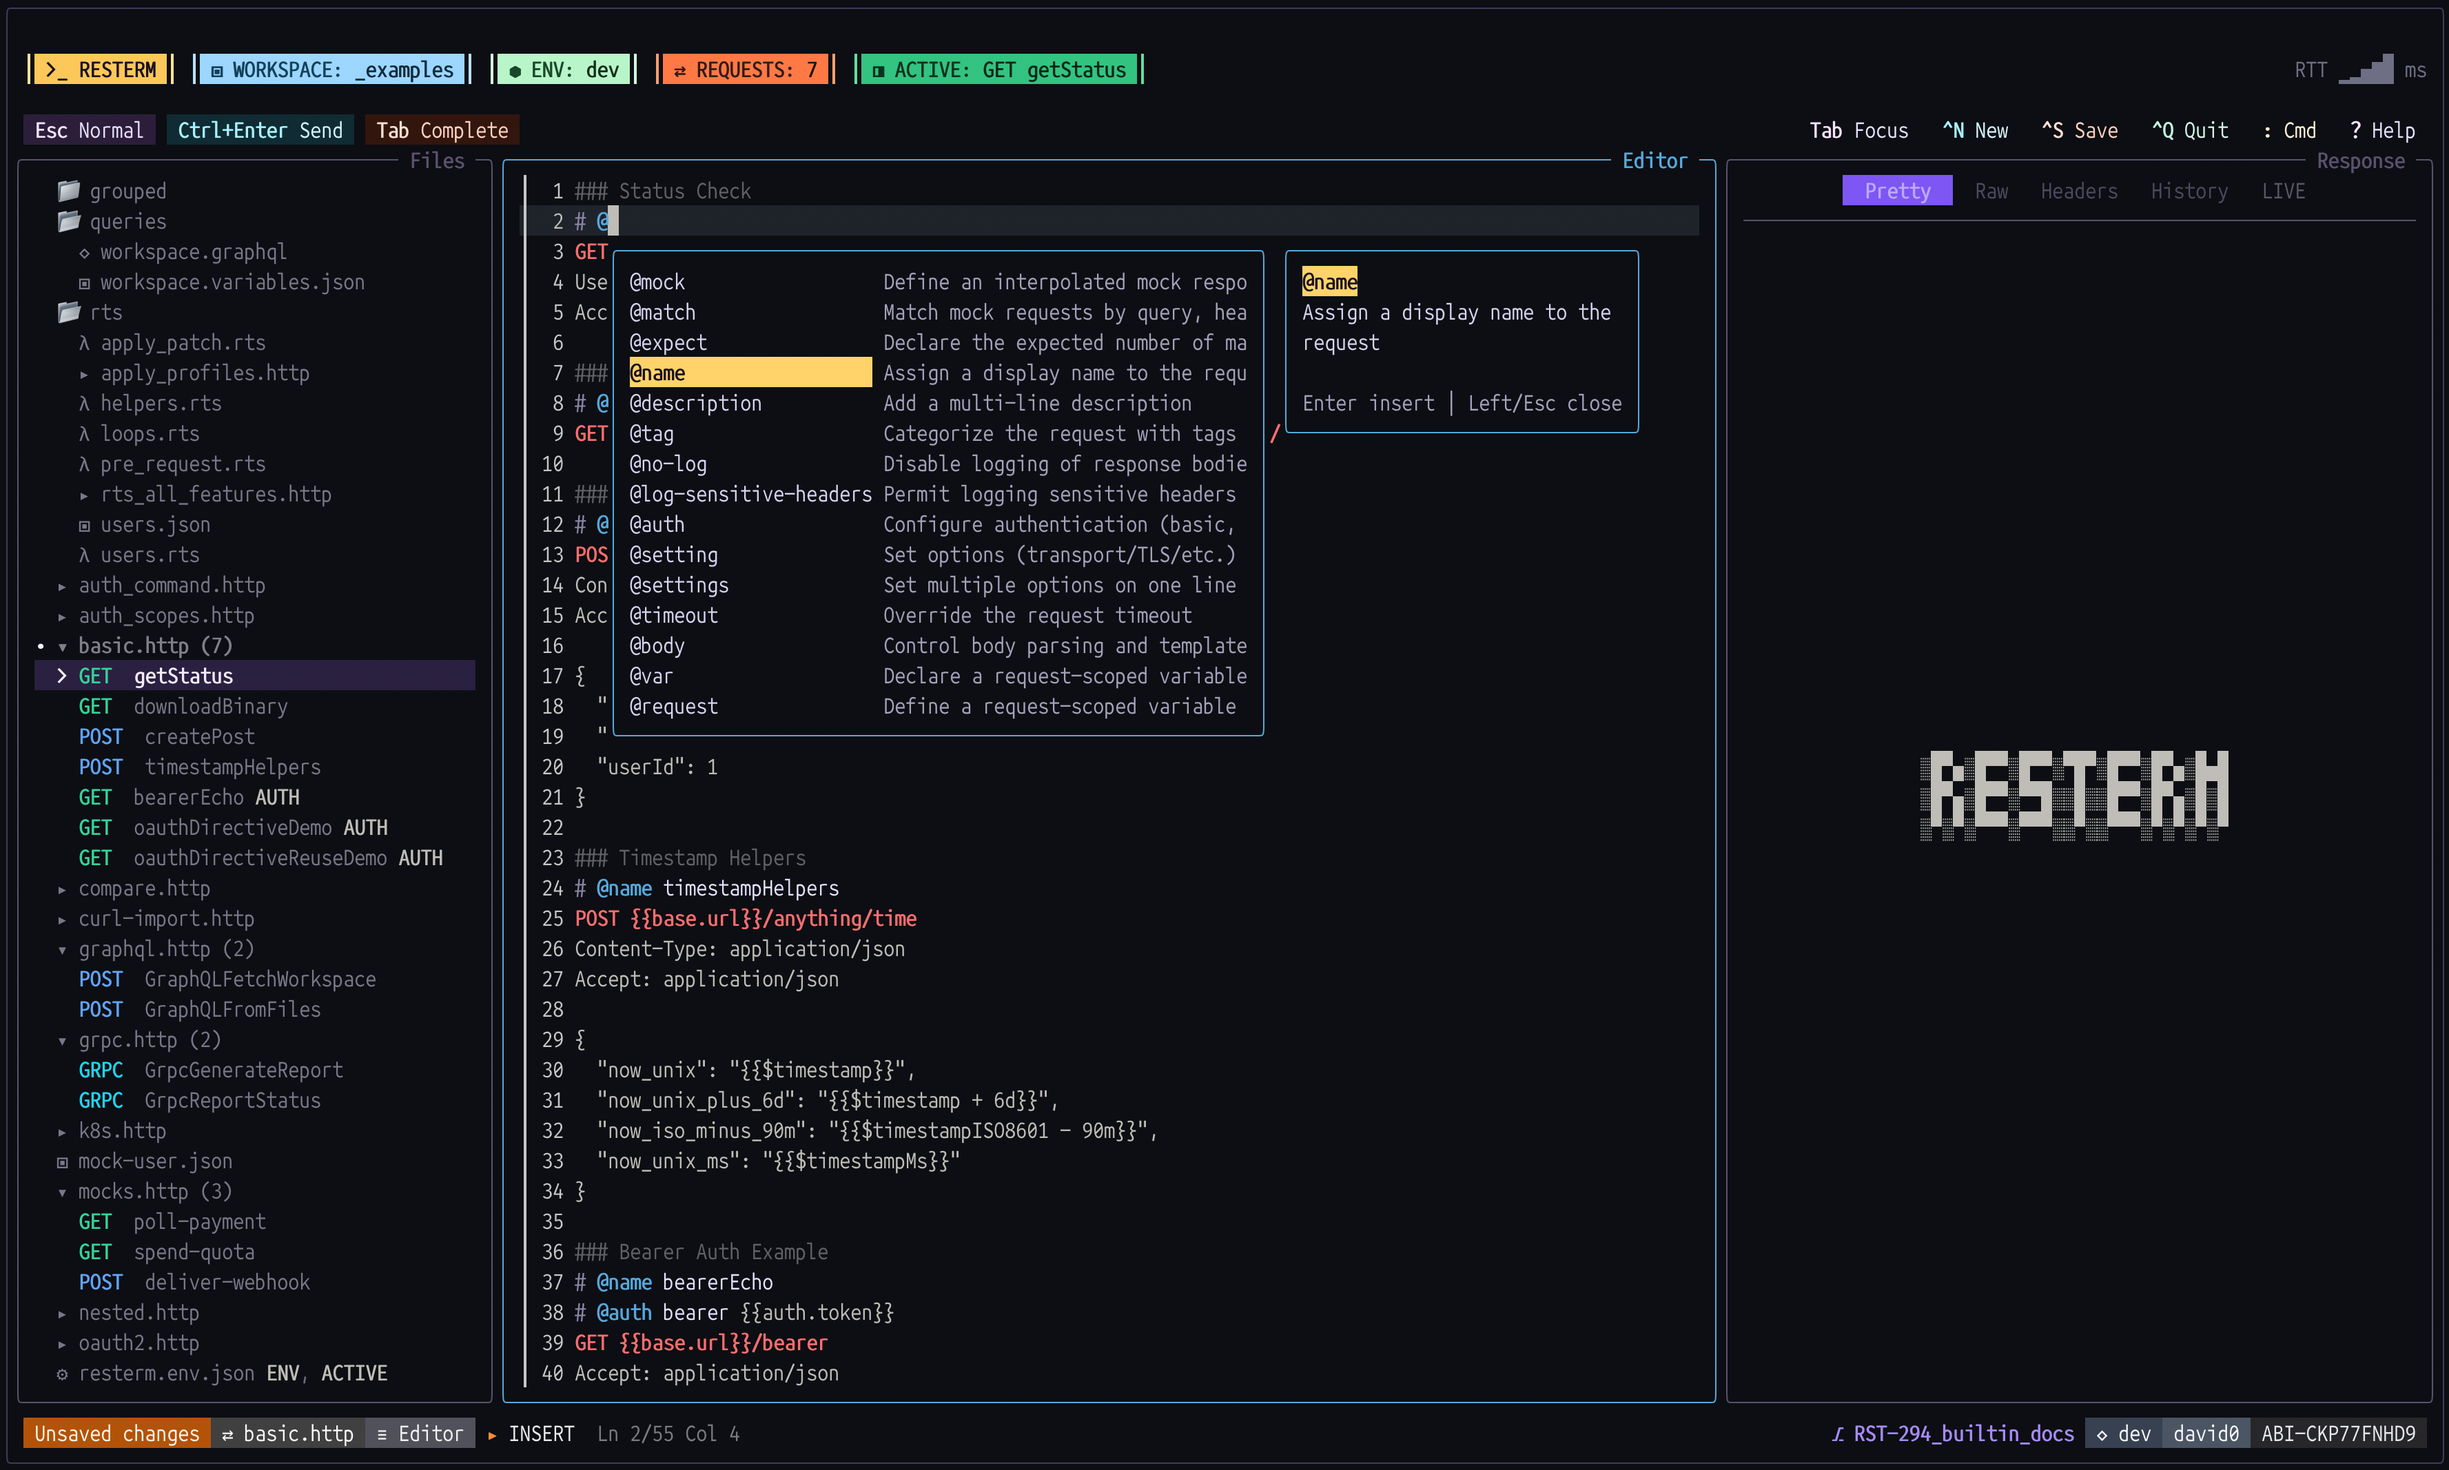
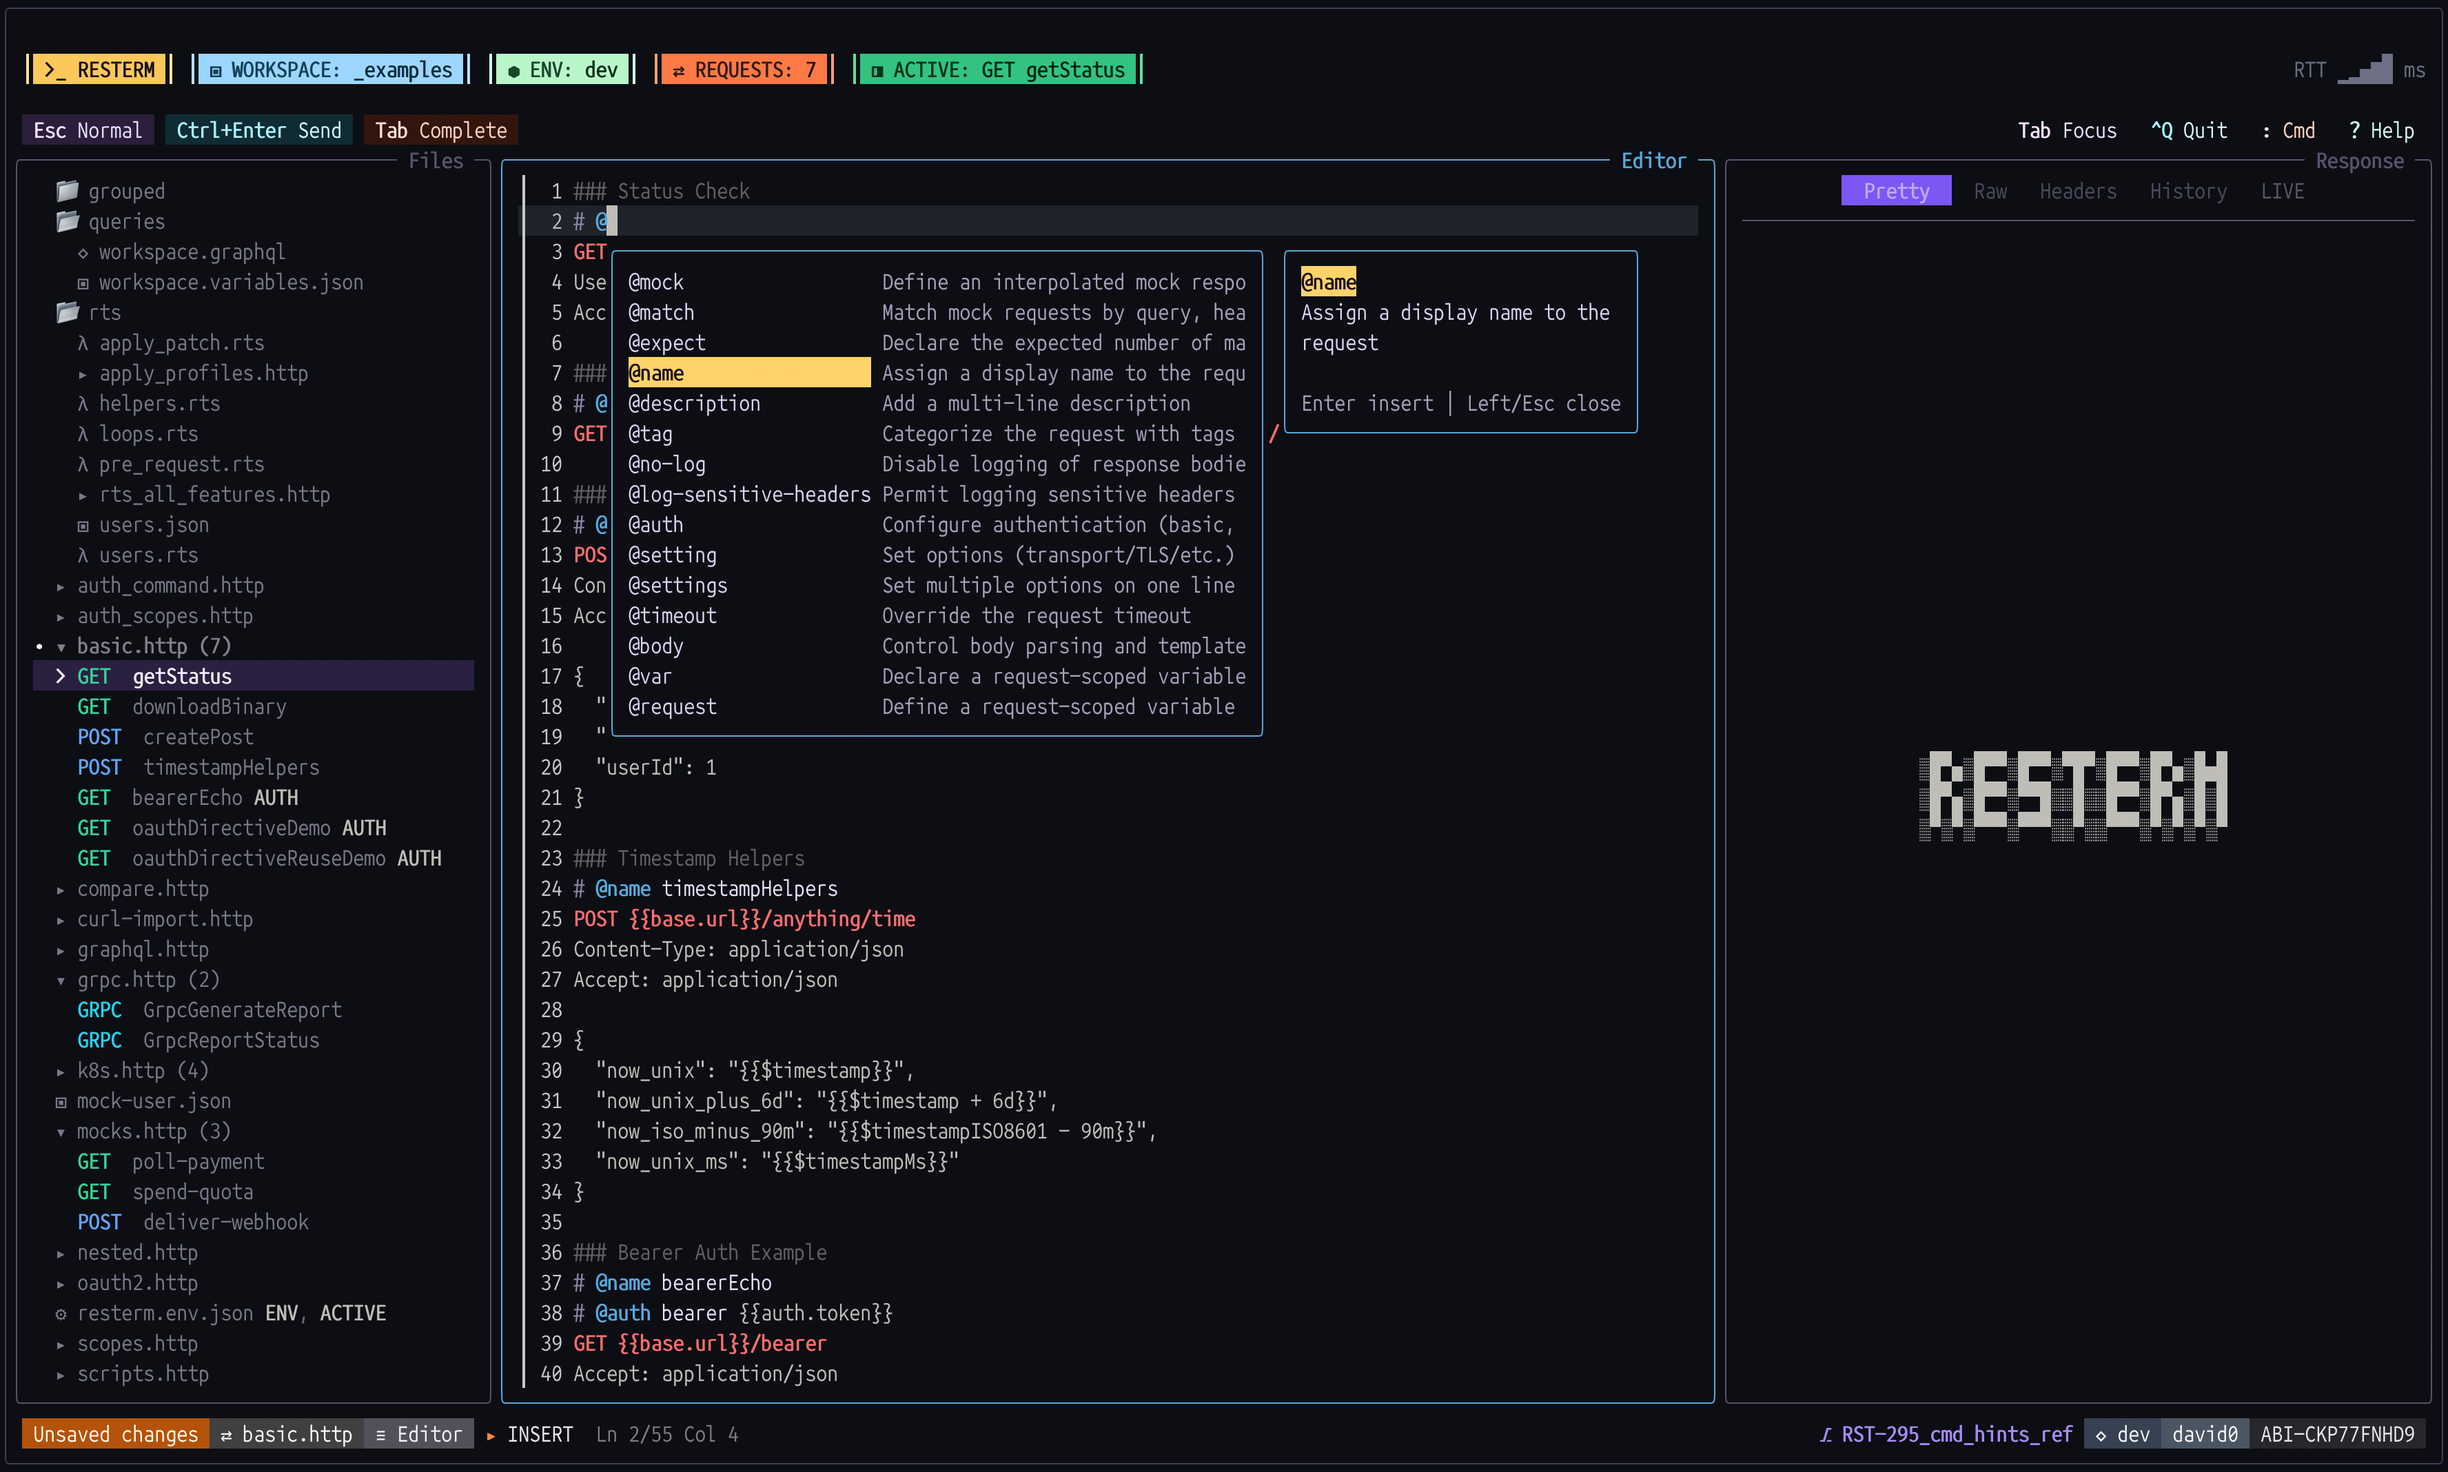
RST-295: command hints ref (#339)
* RST-295: ref command bar pinned hints
* chore: resterm_base

diff --git a/internal/ui/model_command_hints.go b/internal/ui/model_command_hints.go
@@ -119,53 +119,38 @@ func (m Model) renderCommandHints(style lipgloss.Style) string {
 	limit := commandBarContentWidth(style)
 	divider := m.theme.CommandDivider.Render(" ")
 
-	anchorRow := m.pinnedRow(limit, divider)
+	anchor := m.pinnedRow(limit, divider)
 	if limit <= 0 {
-		row := lipgloss.JoinHorizontal(lipgloss.Top, m.fitCommandHints(nil, m.contextCommandHints(), divider, 0)...)
-		return renderCommandBarContainer(style, row+anchorRow)
+		return renderCommandBarContainer(style, m.renderHintRow(m.contextCommandHints(), divider, 0)+anchor)
 	}
 
 	const gap = 2
-	contextRow := ""
-	if avail := limit - lipgloss.Width(anchorRow) - gap; avail > 0 {
-		contextRow = lipgloss.JoinHorizontal(lipgloss.Top, m.fitCommandHints(nil, m.contextCommandHints(), divider, avail)...)
+	context := ""
+	if avail := limit - lipgloss.Width(anchor) - gap; avail > 0 {
+		context = m.renderHintRow(m.contextCommandHints(), divider, avail)
 	}
-	pad := max(limit-lipgloss.Width(contextRow)-lipgloss.Width(anchorRow), 0)
-	return renderCommandBarContainer(style, contextRow+strings.Repeat(" ", pad)+anchorRow)
+	pad := max(limit-lipgloss.Width(context)-lipgloss.Width(anchor), 0)
+	return renderCommandBarContainer(style, context+strings.Repeat(" ", pad)+anchor)
 }
 
-// pinnedRow lays out the global shortcuts in display order Focus, New, Save,
-// Quit, Cmd, Help. Labels drop when the full row would claim more than half
-// the bar. Focus, Cmd, and Help claim remaining space before the middle three.
+// pinnedRow lays out the global shortcuts in display order Focus, Quit, Cmd,
+// Help. Labels drop when the full row would claim more than half the bar.
+// Focus, Cmd, and Help claim remaining space before Quit.
 func (m Model) pinnedRow(limit int, divider string) string {
-	focus := m.commandActionHint(bindings.ActionCycleFocusNext, "Focus")
 	core := []commandHint{
-		focus,
+		m.commandActionHint(bindings.ActionCycleFocusNext, "Focus"),
 		{key: ":", label: "Cmd"},
 		m.commandActionHint(bindings.ActionToggleHelp, "Help"),
 	}
 	extras := []commandHint{
-		caretKey(m.commandActionHint(bindings.ActionOpenNewFileModal, "New")),
-		caretKey(m.commandActionHint(bindings.ActionSaveFile, "Save")),
 		caretKey(m.commandActionHint(bindings.ActionQuitApp, "Quit")),
 	}
-	for i := range core {
-		core[i].noBackground = true
-	}
-	for i := range extras {
-		extras[i].noBackground = true
-	}
-	assemble := func() []commandHint {
-		out := []commandHint{core[0]}
-		out = append(out, extras...)
-		return append(out, core[1], core[2])
-	}
 
-	fullRow := lipgloss.JoinHorizontal(lipgloss.Top, m.fitCommandHints(nil, assemble(), divider, 0)...)
+	full := m.renderHintRow(pinnedOrder(core, extras), divider, 0)
 	if limit <= 0 {
-		return fullRow
+		return full
 	}
-	if lipgloss.Width(fullRow) > limit/2 {
+	if lipgloss.Width(full) > limit/2 {
 		for i := range core {
 			core[i].label = ""
 		}
@@ -174,8 +159,8 @@ func (m Model) pinnedRow(limit int, divider string) string {
 		}
 	}
 
-	width := lipgloss.Width(lipgloss.JoinHorizontal(lipgloss.Top, m.fitCommandHints(nil, core, divider, limit)...))
-	kept := extras[:0]
+	width := lipgloss.Width(m.renderHintRow(pinnedOrder(core, nil), divider, limit))
+	kept := make([]commandHint, 0, len(extras))
 	for _, h := range extras {
 		if h.key == "" {
 			continue
@@ -187,37 +172,48 @@ func (m Model) pinnedRow(limit int, divider string) string {
 		width += w
 		kept = append(kept, h)
 	}
-	extras = kept
-	return lipgloss.JoinHorizontal(lipgloss.Top, m.fitCommandHints(nil, assemble(), divider, limit)...)
+	return m.renderHintRow(pinnedOrder(core, kept), divider, limit)
 }
 
-func (m Model) fitCommandHints(
-	buttons []string,
-	hints []commandHint,
-	divider string,
-	limit int,
-) []string {
-	width := lipgloss.Width(lipgloss.JoinHorizontal(lipgloss.Top, buttons...))
+// pinnedOrder builds the display order from core Focus, Cmd, Help. Focus leads
+// the row, Cmd and Help trail it, and extras sit in between so they can drop
+// without moving the edges. Pinned hints render without segment backgrounds.
+func pinnedOrder(core, extras []commandHint) []commandHint {
+	row := make([]commandHint, 0, len(core)+len(extras))
+	row = append(row, core[0])
+	row = append(row, extras...)
+	row = append(row, core[1:]...)
+	for i := range row {
+		row[i].noBackground = true
+	}
+	return row
+}
+
+// renderHintRow joins bound hints with divider. A positive limit drops any
+// hint that would push the row past it.
+func (m Model) renderHintRow(hints []commandHint, divider string, limit int) string {
+	var cells []string
+	width, count := 0, 0
 	for _, hint := range hints {
 		if hint.key == "" {
 			continue
 		}
-		idx := (len(buttons) + 1) / 2
-		button := m.renderCommandHint(hint, idx)
-		extra := lipgloss.Width(button)
-		if len(buttons) > 0 {
-			extra += lipgloss.Width(divider)
+		cell := m.renderCommandHint(hint, count)
+		w := lipgloss.Width(cell)
+		if count > 0 {
+			w += lipgloss.Width(divider)
 		}
-		if limit > 0 && width+extra > limit {
+		if limit > 0 && width+w > limit {
 			continue
 		}
-		if len(buttons) > 0 {
-			buttons = append(buttons, divider)
+		if count > 0 {
+			cells = append(cells, divider)
 		}
-		buttons = append(buttons, button)
-		width += extra
+		cells = append(cells, cell)
+		width += w
+		count++
 	}
-	return buttons
+	return lipgloss.JoinHorizontal(lipgloss.Top, cells...)
 }
 
 func (m Model) renderCommandHint(hint commandHint, idx int) string {

diff --git a/internal/ui/model_render.go b/internal/ui/model_render.go
@@ -1961,29 +1961,18 @@ func renderCommandButton(
 		textColor = lipgloss.Color("#E5E1FF")
 	}
 
-	button := lipgloss.NewStyle().
-		Foreground(textColor).
-		Padding(0, 1).
-		Bold(true)
+	button := lipgloss.NewStyle().Padding(0, 1)
+	keyStyle := lipgloss.NewStyle().Foreground(keyColor).Bold(true)
+	labelStyle := lipgloss.NewStyle().Foreground(textColor)
 	if palette.Background != "" {
 		button = button.Background(palette.Background)
-	}
-
-	keyStyle := lipgloss.NewStyle().
-		Foreground(keyColor).
-		Bold(true)
-	labelStyle := lipgloss.NewStyle().
-		Foreground(textColor).
-		Bold(false)
-	if palette.Background != "" {
 		keyStyle = keyStyle.Background(palette.Background)
 		labelStyle = labelStyle.Background(palette.Background)
 	}
-	keyText := keyStyle.Render(key)
-	content := keyText
+
+	content := keyStyle.Render(key)
 	if label != "" {
-		labelText := labelStyle.Render(" " + label)
-		content = lipgloss.JoinHorizontal(lipgloss.Center, keyText, labelText)
+		content += labelStyle.Render(" " + label)
 	}
 	return button.Render(content)
 }

diff --git a/internal/ui/model_render_commandbar_test.go b/internal/ui/model_render_commandbar_test.go
@@ -148,9 +148,14 @@ func TestRenderCommandBarKeepsStableAnchors(t *testing.T) {
 	model.focus = focusEditor
 
 	out := ansi.Strip(model.renderCommandBar())
+	for _, unexpected := range []string{"^N New", "^S Save"} {
+		if strings.Contains(out, unexpected) {
+			t.Fatalf("did not expect pinned hint %q, got %q", unexpected, out)
+		}
+	}
 	prev := -1
 	for _, want := range []string{
-		"Tab Focus", "^N New", "^S Save", "^Q Quit", ": Cmd", "? Help",
+		"Tab Focus", "^Q Quit", ": Cmd", "? Help",
 	} {
 		idx := strings.Index(out, want)
 		if idx < 0 {
@@ -194,7 +199,7 @@ func TestRenderCommandBarPinnedHintsHaveNoSegmentBackground(t *testing.T) {
 	)[0]
 	assertCommandHintBackground(t, plain, backgrounds, "i Insert", contextBackground)
 	for _, hint := range []string{
-		"Tab Focus", "^N New", "^S Save", "^Q Quit", ": Cmd", "? Help",
+		"Tab Focus", "^Q Quit", ": Cmd", "? Help",
 	} {
 		assertCommandHintBackground(t, plain, backgrounds, hint, nil)
 	}
